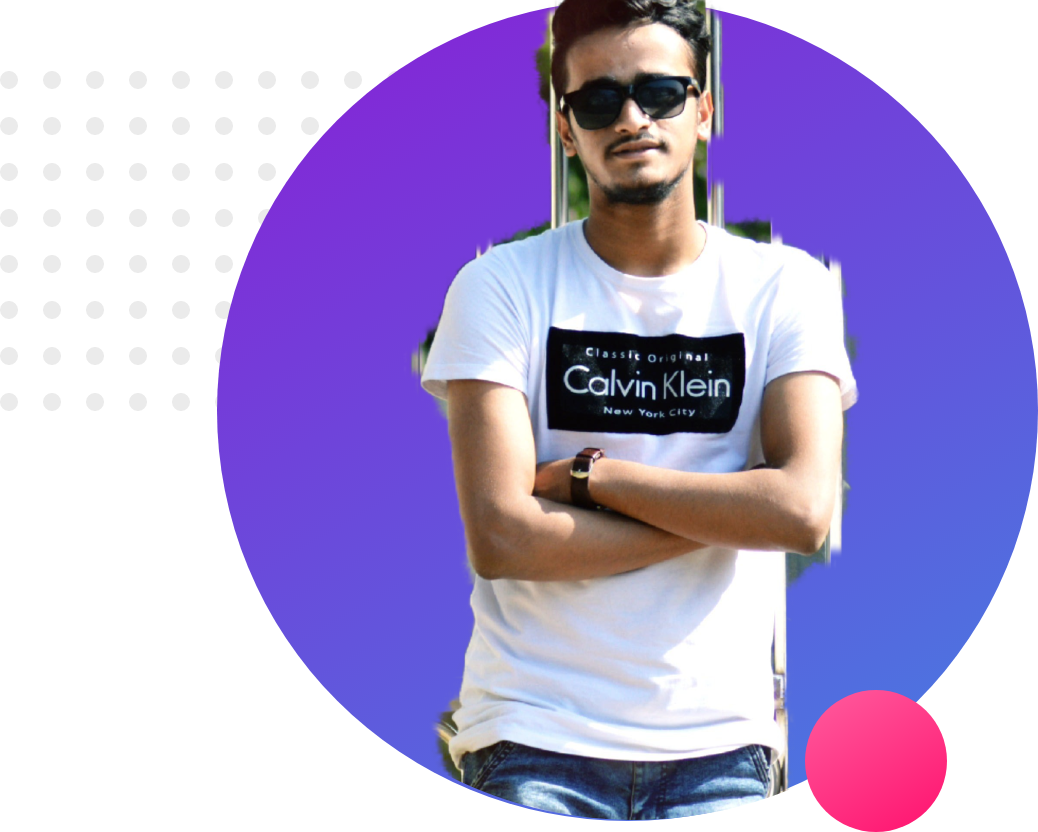
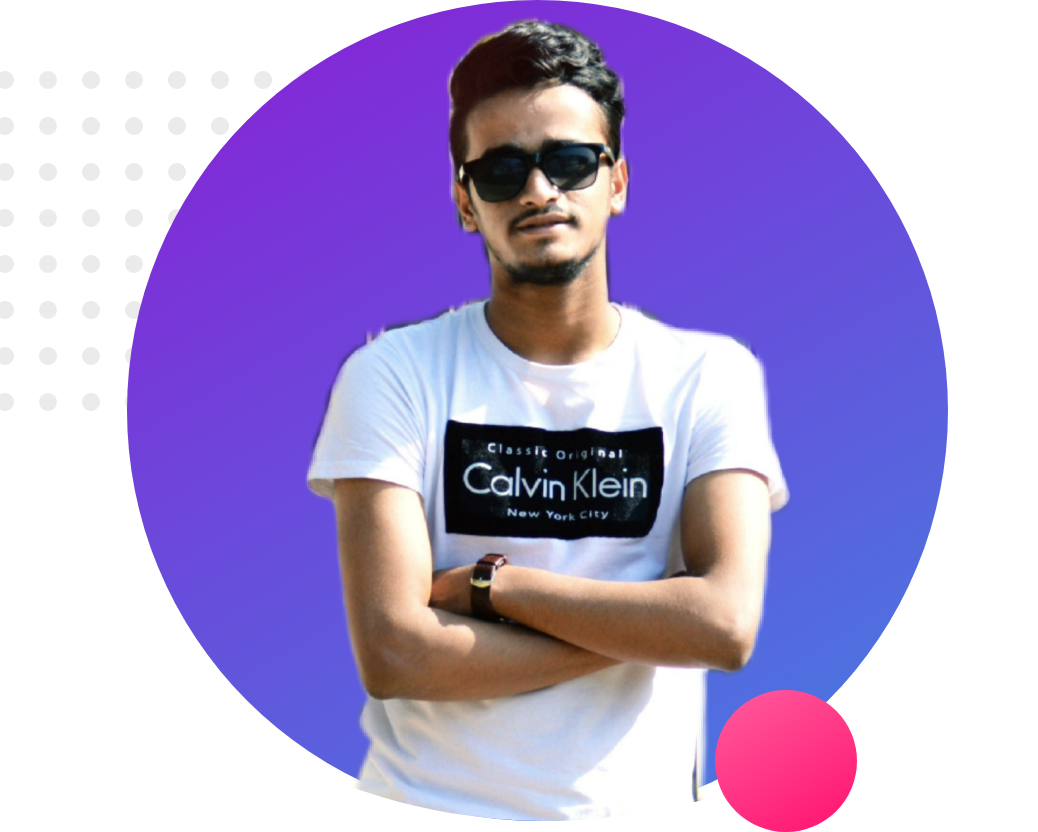
sample website

diff --git a/index.html b/index.html
@@ -8,16 +8,47 @@
     <link rel="stylesheet" href="style.css">
 </head>
 <body>
-    <section>
+    <section class="top-banner">
         <div class="half-width">
             <h1>Welcome To</h1>
             <h1><span class="name-highlight">Shahriar</span> Website</h1>
             <h3>World-Class professional web developer</h3>
             <p>I'm Sm Shahriar. I am a Web Debeloper and i'm very passionate and dedicated to my work. I have acquired the skills and knowledge neccessary to make your project a success.</p>
+            <a class="link-button" target="_blank" href="https://www.linkedin.com/feed/">ADD ME</a>
         </div>
         <div class="half-width"> 
             <img src="images/sm.png" alt="">
         </div>
     </section>
+
+    <section class="dream-area">
+        <div class="half-width">
+            <img src="images/sm1.png" alt="">
+        </div>
+        <div class="half-width single-experence">
+            <h2>Big Dream</h2>
+            <h3>Become World's No.1 Developer </h3>
+            <p>I already learned the basic HTML and CSS. I can build any simple website. I can even teach my grandma how to make simple website. My goal is to build 3 websites and learn advanced topics.</p>
+            <a class="link-button" target="_blank" href="https://www.facebook.com/md.saharia.397">Visit My FB</a>
+
+
+        </div>
+    </section>
+    <section class="experiences-area">
+        <h2 class="ex">Experiences..</h2>
+        <div id="full-stack" class="half-width single-experence">
+            <h2>Full Stack Web Developer</h2>
+            <h3 class="p-highlight">2021 - Present | Pro level Web Developer</h3>
+            <p>I am the master of HTML, CSS and Javascript. I know everything needed to make a website function, efficient. I didn't stop with the web. I went beyond with most popular Javascript framework called Vue JS. I even know the deployment, server and security. I will give you 100% web solution.</p>
+        </div>
+        <div id="baby-web" class="half-width single-experence">
+            <h2>Baby Web Developer</h2>
+            <h3 class="p-highlight">2020-2021 | Programming Hero Learner</h3>
+            <p>They didn't offer me a job. But I made myself as a remove web developer. I made their website and showed it to them. They liked it. And uploaded the content. It was fun working at Programming Hero</p>
+        </div>
+    </section>
+    <footer>
+        <p>Shahriar 2021, All rights reserved.</p>
+    </footer>
 </body>
 </html>

diff --git a/style.css b/style.css
@@ -1,12 +1,22 @@
 body{
+    margin: 0;
     font-family: 'Poppins',sans-serif;
 }
 
 h1{
     font-size: 50px;
 }
+h2{
+    font-size: 40px;
+}
+p{
+    color: rgb(95, 79, 204);
+}
 .name-highlight{
     color: red;
+}
+.p-highlight{
+    color: orange;
 }
 .half-width{
     width: 40%;
@@ -18,4 +28,55 @@ h1{
 .half-width img{
     width: 100%;
     
+}
+.top-banner{
+    background-image: url("images/top-banner.png");
+    background-repeat: no-repeat;
+}
+section{
+    height:500px;
+    padding-bottom: 150px;
+}
+.link-button{
+    text-decoration: none;
+    background-image: linear-gradient(lightSalmon, rgb(255, 38, 0));
+    padding: 10px 20px;
+    border-radius: 10px;
+    color: seashell;
+    font-weight: 700;
+
+}
+.dream-area{
+    background-image: url("images/dream-bg.png");
+    background-repeat: no-repeat;
+    background-position: right;
+}
+.ex{
+    margin: 20px 0px 0px 40px;
+}
+.single-experence{
+    box-shadow: 10px 10px 40px red;
+    border-radius: 10px;
+    height: 80%;
+    background-color: white;
+}
+.experiences-area{
+    background-image: url("images/exp-bg.png");
+    background-repeat: no-repeat;
+    background-position: left;
+
+}
+#full-stack{
+    border-left: 7px solid;
+    border-image: linear-gradient(200deg, rgb(243, 3, 191), tomato);
+    border-image-slice: 1;
+}
+#baby-web{
+    border-left: 7px solid;
+    border-image: linear-gradient(200deg, rgb(27, 11, 255), cyan);
+    border-image-slice: 1;
+}
+footer p{
+    text-align: center;
+    font-size: 12px;
 }
